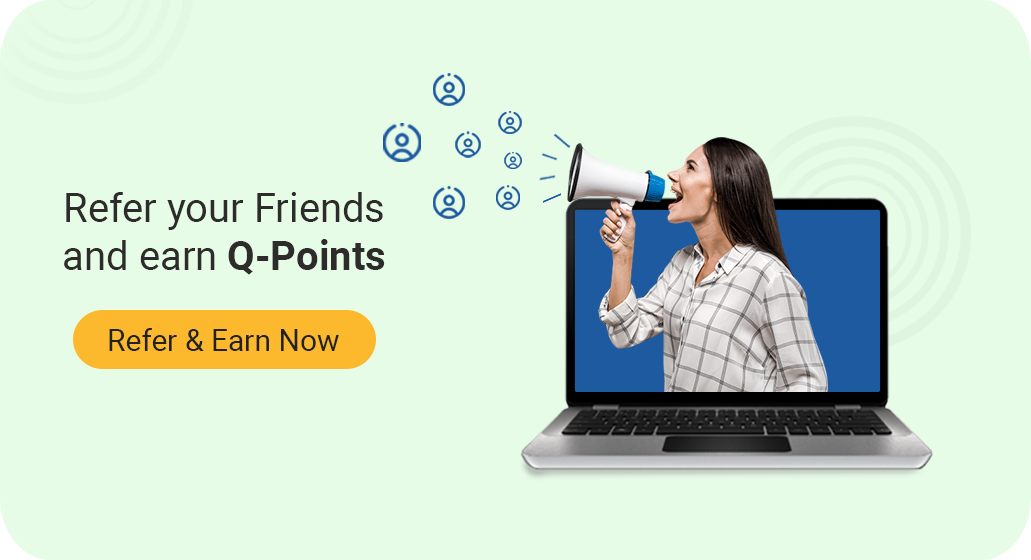
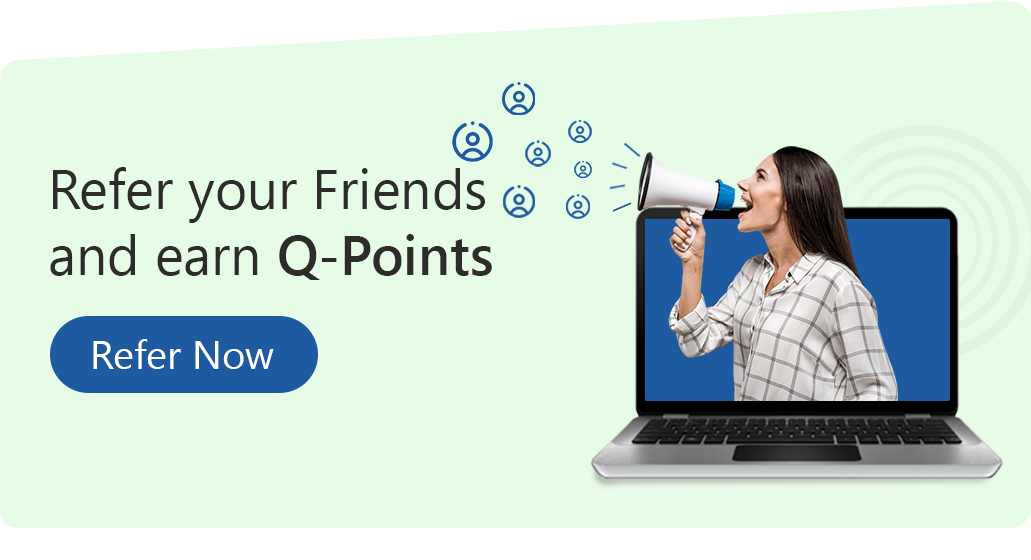
fixes

diff --git a/src/containers/student/pytn/pytnListing.js b/src/containers/student/pytn/pytnListing.js
@@ -23,10 +23,10 @@ function PytnListing(props) {
   const offeringMasterData = useReactiveVar(offeringsMasterData);
   const studentInfo = useReactiveVar(studentDetails);
 
-  const [orderItems, setOrderItems] = useState([]);
+  const [pytnList, setPytnList] = useState([]);
   const [isListEmpty, setIsListEmpty] = useState(false);
 
-  const [getTutionNeeds, { loading: loadingTutionNeeds }] = useLazyQuery(GET_TUTION_NEED_LISTING, {
+  const [getTuitionNeeds, { loading: loadingTuitionNeeds }] = useLazyQuery(GET_TUTION_NEED_LISTING, {
     fetchPolicy: 'no-cache',
     onError: (e) => {
       console.log(e);
@@ -34,7 +34,7 @@ function PytnListing(props) {
     onCompleted: (data) => {
       if (data) {
         setIsListEmpty(data?.searchStudentPYTN?.edges.length === 0);
-        setOrderItems(data?.searchStudentPYTN?.edges);
+        setPytnList(data?.searchStudentPYTN?.edges);
       }
     },
   });
@@ -49,7 +49,11 @@ function PytnListing(props) {
         alertBox('Request removed successfully', '', {
           positiveText: 'Ok',
           onPositiveClick: () => {
-            getTutionNeeds({ variables: { searchDto: { studentId: studentInfo.id, page: 1, size: 100 } } });
+            getTuitionNeeds({
+              variables: {
+                searchDto: { studentId: studentInfo.id, page: 1, size: 100, sortBy: 'createdDate', sortOrder: 'desc' },
+              },
+            });
           },
         });
       }
@@ -58,7 +62,11 @@ function PytnListing(props) {
 
   useEffect(() => {
     if (isFocussed) {
-      getTutionNeeds({ variables: { searchDto: { studentId: studentInfo.id, page: 1, size: 100 } } });
+      getTuitionNeeds({
+        variables: {
+          searchDto: { studentId: studentInfo.id, page: 1, size: 100, sortBy: 'createdDate', sortOrder: 'desc' },
+        },
+      });
     }
   }, [isFocussed]);
 
@@ -161,7 +169,7 @@ function PytnListing(props) {
 
   return (
     <>
-      <Loader isLoading={loadingTutionNeeds || pytnDelete} />
+      <Loader isLoading={loadingTuitionNeeds || pytnDelete} />
       <View style={[commonStyles.mainContainer, { backgroundColor: Colors.white, paddingHorizontal: 0 }]}>
         <ScreenHeader
           homeIcon
@@ -176,7 +184,7 @@ function PytnListing(props) {
             <View style={{ paddingHorizontal: RfW(16) }}>
               <FlatList
                 showsVerticalScrollIndicator={false}
-                data={orderItems}
+                data={pytnList}
                 renderItem={({ item }) => renderClassItem(item)}
                 keyExtractor={(item, index) => index.toString()}
                 contentContainerStyle={{ paddingBottom: RfH(170) }}

diff --git a/src/utils/constants.js b/src/utils/constants.js
@@ -30,7 +30,7 @@ export const LOTTIE_JSON_FILES = {
 };
 
 export const FRONTEND_URL = 'http://stagingv2.guruq.in';
-export const DASHBOARD_URL = 'http://guruq.in';
+export const DASHBOARD_URL = 'http://dashboardv2.guruq.in';
 
 // export const API_URL = 'http://10.0.0.6:5000';
 export const API_URL = 'http://apiv2.guruq.in/api';
@@ -43,11 +43,11 @@ export const QPOINTS_FAQ_URL = `${DASHBOARD_URL}/faqs/qpoints-faqs`;
 export const BOOKING_FAQ_URL = `${DASHBOARD_URL}/faqs/booking-faqs`;
 export const LEGAL_FAQ_URL = `${DASHBOARD_URL}/faqs/legal-terms-conditions`;
 
-export const ABOUT_US_URL = `https://guruq.in/about-us`;
-export const CEO_MESSAGE_URL = `https://guruq.in/ceo-message`;
-export const CSR_URL = `https://guruq.in/guruq-csr`;
-export const IN_NEWS_URL = 'https://guruq.in/guruq-in-news';
-export const ACADEMIC_BOARD_URL = 'https://guruq.in/academic-board';
+export const ABOUT_US_URL = `${FRONTEND_URL}/about-us`;
+export const CEO_MESSAGE_URL = `${FRONTEND_URL}/ceo-message`;
+export const CSR_URL = `${FRONTEND_URL}/guruq-csr`;
+export const IN_NEWS_URL = `${FRONTEND_URL}/guruq-in-news`;
+export const ACADEMIC_BOARD_URL = `${FRONTEND_URL}/academic-board`;
 
 export const SCHOOL_EDUCATION = 'School Education';
 export const COMPETITIVE_EXAM = 'Competitive Exam';

diff --git a/src/theme/images.js b/src/theme/images.js
@@ -141,7 +141,7 @@ const Images = {
   pin: require('../assets/images/pin.png'),
   plus_blue: require('../assets/images/plus_blue.png'),
   png: require('../assets/images/png.png'),
-  post_needs: require('../assets/images/post_needs.png'),
+  post_needs: require('../assets/images/pytn.png'),
   price_metrics: require('../assets/images/price-metrics.png'),
   professional: require('../assets/images/professional.png'),
   proficiency_test_b: require('../assets/images/proficiency-test-b.png'),

diff --git a/src/containers/student/dashboard/components/studentDashboard.js b/src/containers/student/dashboard/components/studentDashboard.js
@@ -664,9 +664,9 @@ function StudentDashboard(props) {
               style={{ marginTop: RfH(20) }}
               activeOpacity={0.8}>
               <Image
-                style={{ width: deviceWidth() - RfW(32), height: 200 }}
+                style={{ width: deviceWidth() - RfW(32), height: 170 }}
                 source={Images.post_needs}
-                resizeMode="contain"
+                resizeMode="stretch"
               />
             </TouchableOpacity>
 
